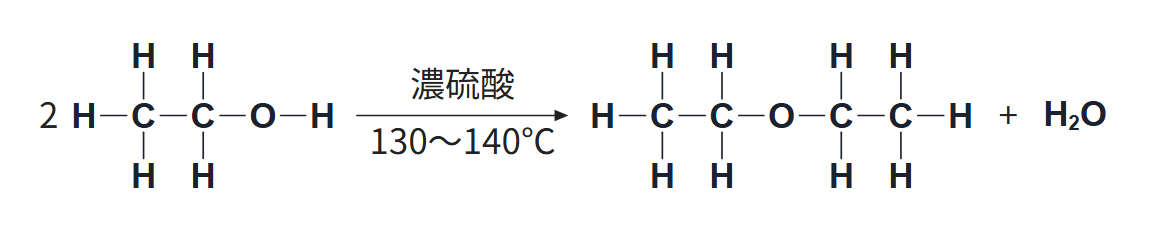
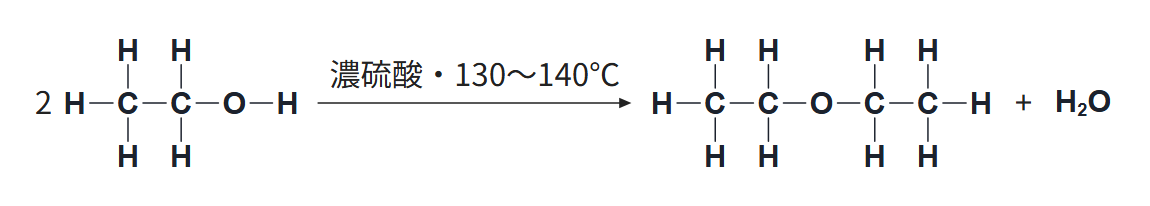
feat(参考書): clue-properties の反応式に構造式とアプリへのリンク

diff --git a/reference-src/clue-properties.md b/reference-src/clue-properties.md
@@ -169,6 +169,8 @@ terms:
 left: 2C₂H₅OH
 over: 濃硫酸・130〜140℃
 right: C₂H₅OC₂H₅ ＋ H₂O
+gen: 2 エタノール → ジエチルエーテル ＋ 水
+app: dehydration_inter
 level: ★★★
 note: 分子間の脱水です。エタノール（沸点78℃）からできたジエチルエーテルは、−OH が無くなって分子どうしが水素結合をつくらないため、沸点が34℃まで下がります。
 :::
